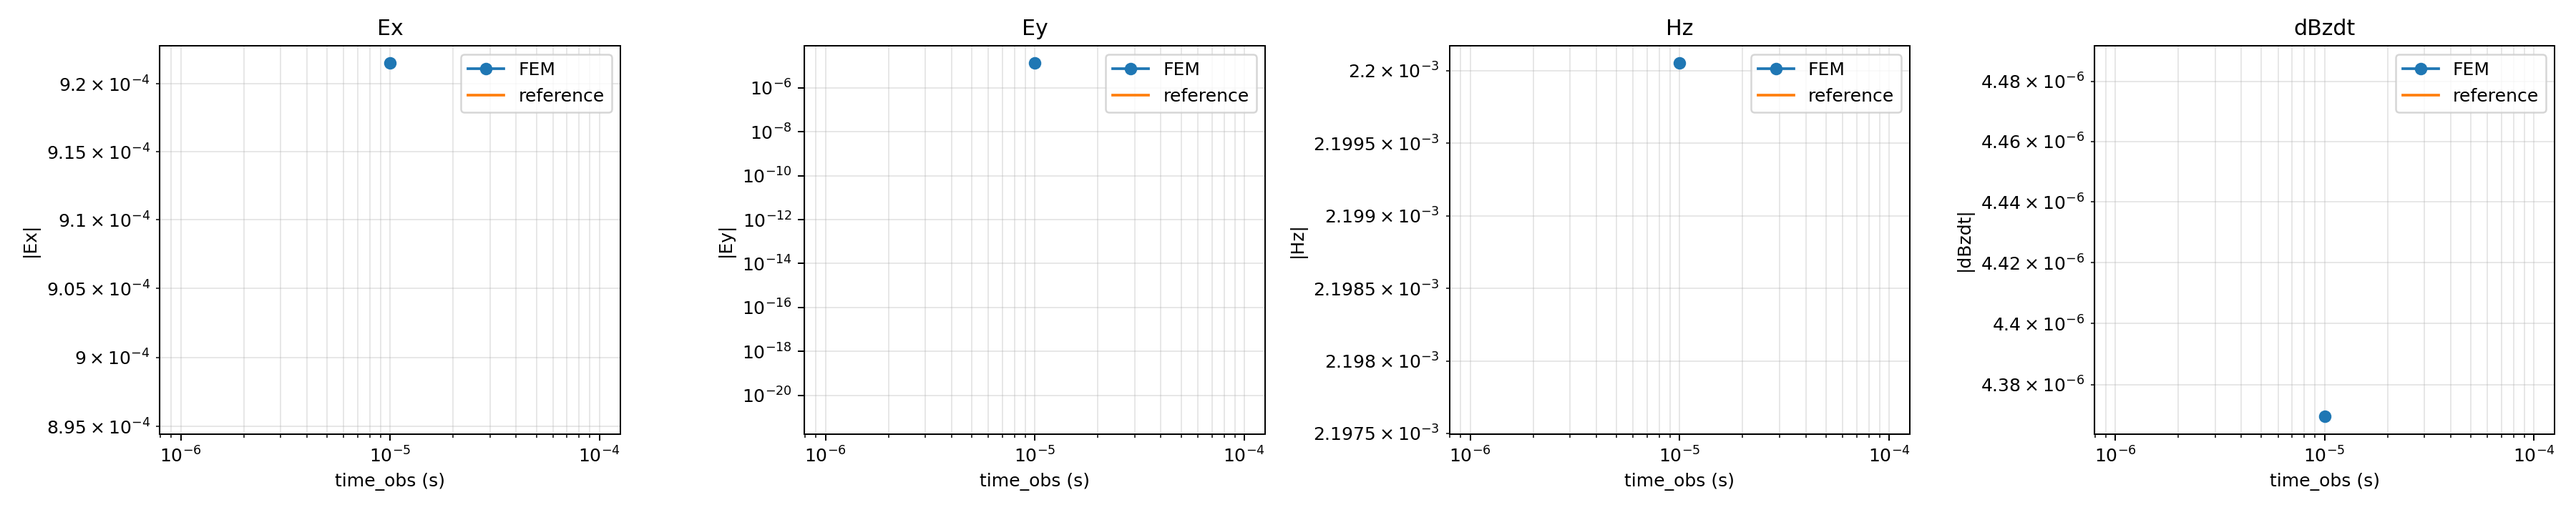
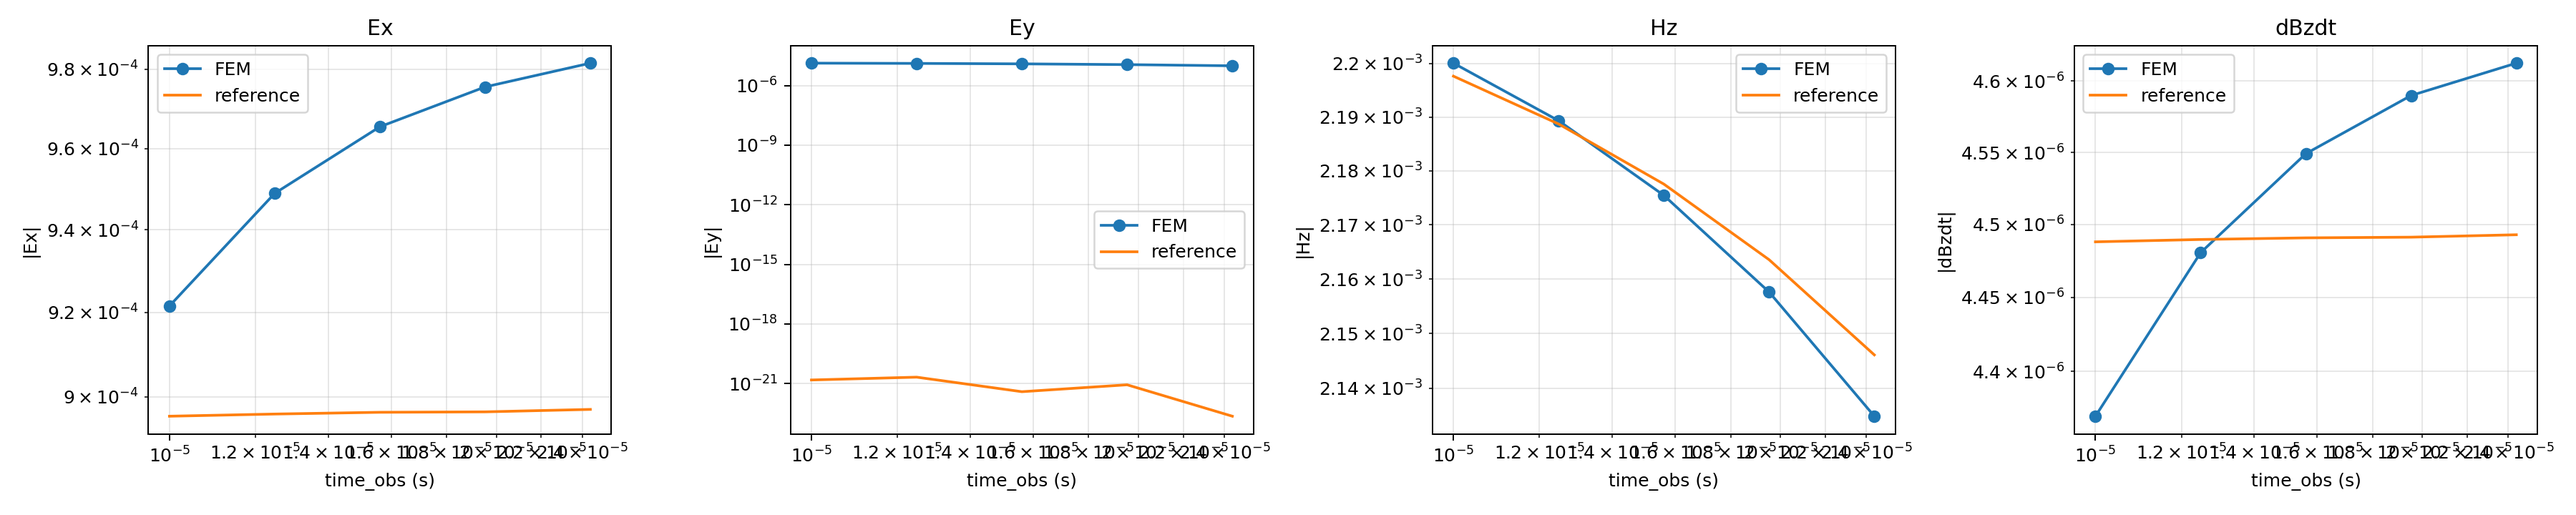
P2 extend mesh-segment no-IP smoke to five outputs
implemented modules: no code changes; updated corrected-model mesh-segment validation artifacts and IMPLEMENTATION_REPORT.md with five-output early-window diagnostics.

tests added: none in this commit; existing mesh-segment source tests from a3d8ef7 remain in place.

validation command: python -m pytest -q tests/test_dolfinx_model_consistency.py tests/test_dolfinx_runtime_report.py tests/test_dolfinx_validation_artifacts.py tests/test_dolfinx_partial_forward.py tests/test_error_metric_floor.py tests/test_noip_3comp_validation_smoke.py tests/test_validation_3comp_cli.py. WSL five-output smoke used --stop-after-outputs 5 and completed in 143.321 s with WSL shutdown afterwards.

known limitations: mesh-segment source integration passes dBzdt and weak Ey over the first five times but physical_pass_all_components remains false because Ex reaches 0.09418477867481403 at t_obs=2.44140625e-5 s; full 1 s rerun remains deferred until early Ex is improved.

diff --git a/IMPLEMENTATION_REPORT.md b/IMPLEMENTATION_REPORT.md
@@ -786,10 +786,37 @@ Receiver mesh-sensitivity smoke:
   - Point receiver from the same field also passes `Ex` and `dBzdt` at the
     first output: point `Ex` error `0.03799459110341777`, point `dBzdt` error
     `0.04882181606313593`.
+- Five-output mesh-segment no-IP smoke:
+  - Same directory as above, regenerated with `--stop-after-outputs 5`.
+  - Runtime: total `143.321 s`, mesh `14.294 s`.
+  - Time range: `1.0e-5` to `2.44140625e-5 s`.
+  - Source line integration:
+    `mode=mesh_segments`, `segments=200`, total segment length `1000 m`,
+    `26` quadrature points per segment, `5200` total quadrature points.
+  - Source projection:
+    - before residual: `0.15869511184790644`
+    - after residual: `2.1986488276977117e-10`
+    - correction `L2/raw = 0.0053012314244093054`
+  - Five-output errors:
+    - `max_error_Ex = 0.09418477867481403` at
+      `t_obs=2.44140625e-5 s`
+    - `max_error_Hz = 0.00520392194214342`
+    - `max_error_dBzdt = 0.026648609495953234`
+    - weak `Ey` scaled absolute error: `0.014953312810585524`
+    - `physical_pass_all_components = false`
+    - `physical_failed_components = ["Ex"]`
+  - Comparison with the earlier dense-global-q5001 disk-average run over the
+    same five times:
+    - q5001 `Ex` errors were approximately
+      `2.42%, 5.48%, 7.33%, 8.46%, 9.11%`.
+    - mesh-segment `Ex` reaches `9.42%` at the fifth point, so source balance
+      improved but early `Ex` did not improve enough.
+    - mesh-segment `dBzdt` remains below `2.67%` and is comparable to or
+      slightly better than q5001 over the same early window.
   - Interpretation: mesh-segment adaptive source integration is a real P2
-    improvement for source consistency and the first observation point. It has
-    not yet proven full-window `1e-5 s` to `1 s` acceptance; a resumed
-    full-window run is still required.
+    improvement for source consistency and magnetic early-time response, but
+    it does not fix early-time `Ex`. A full `1 s` rerun is not justified until
+    the early `Ex` channel is addressed.
 
 - Directory:
   `dolfinx/current_task_runs/y200_rxminus300_noip_diskavg_biotrate_q5001_weakgate_smoke`.
